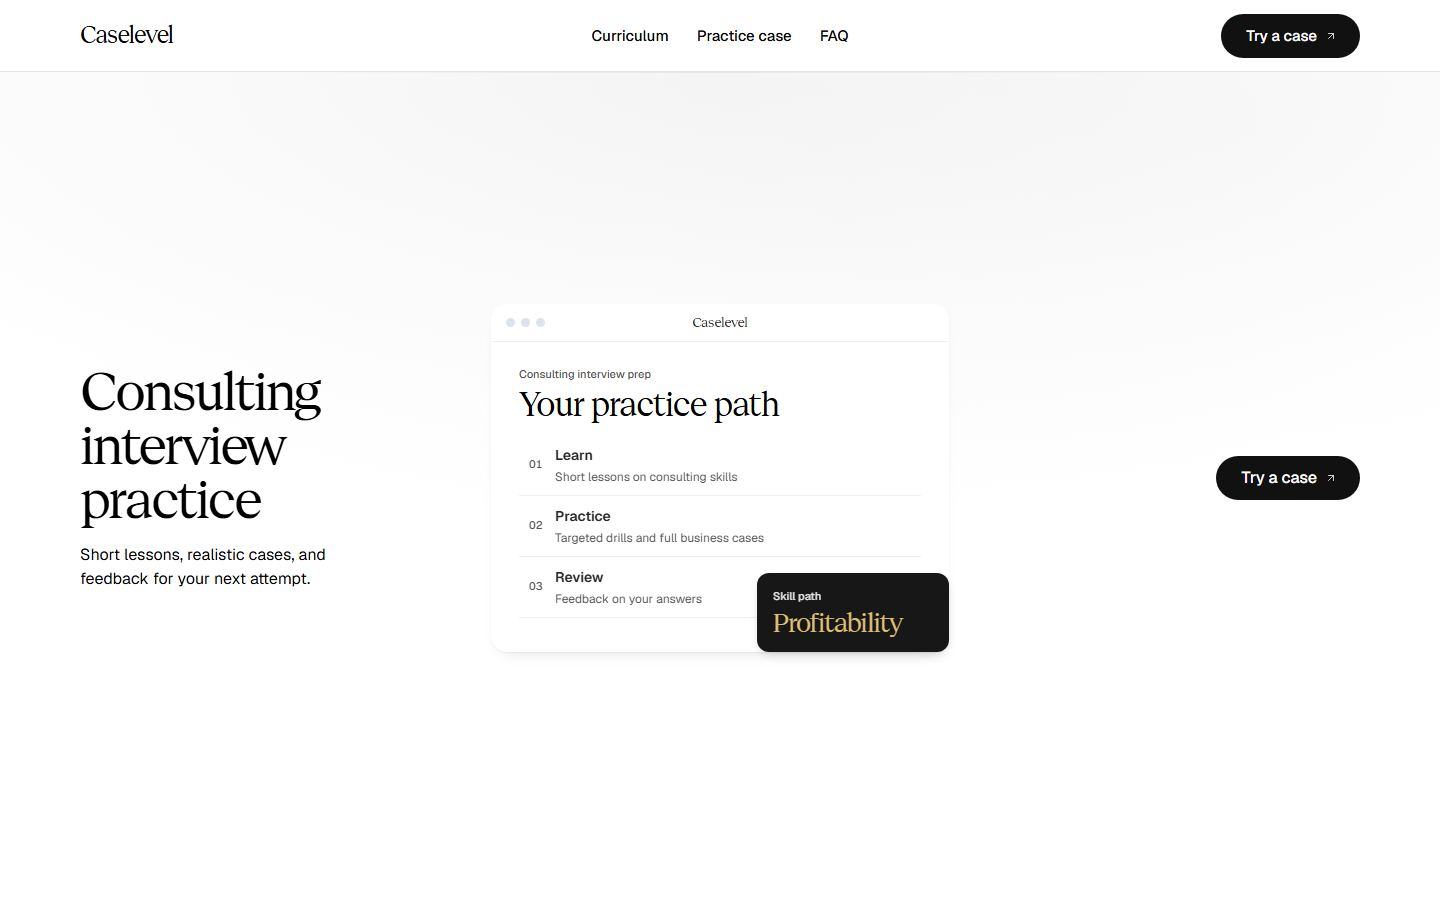
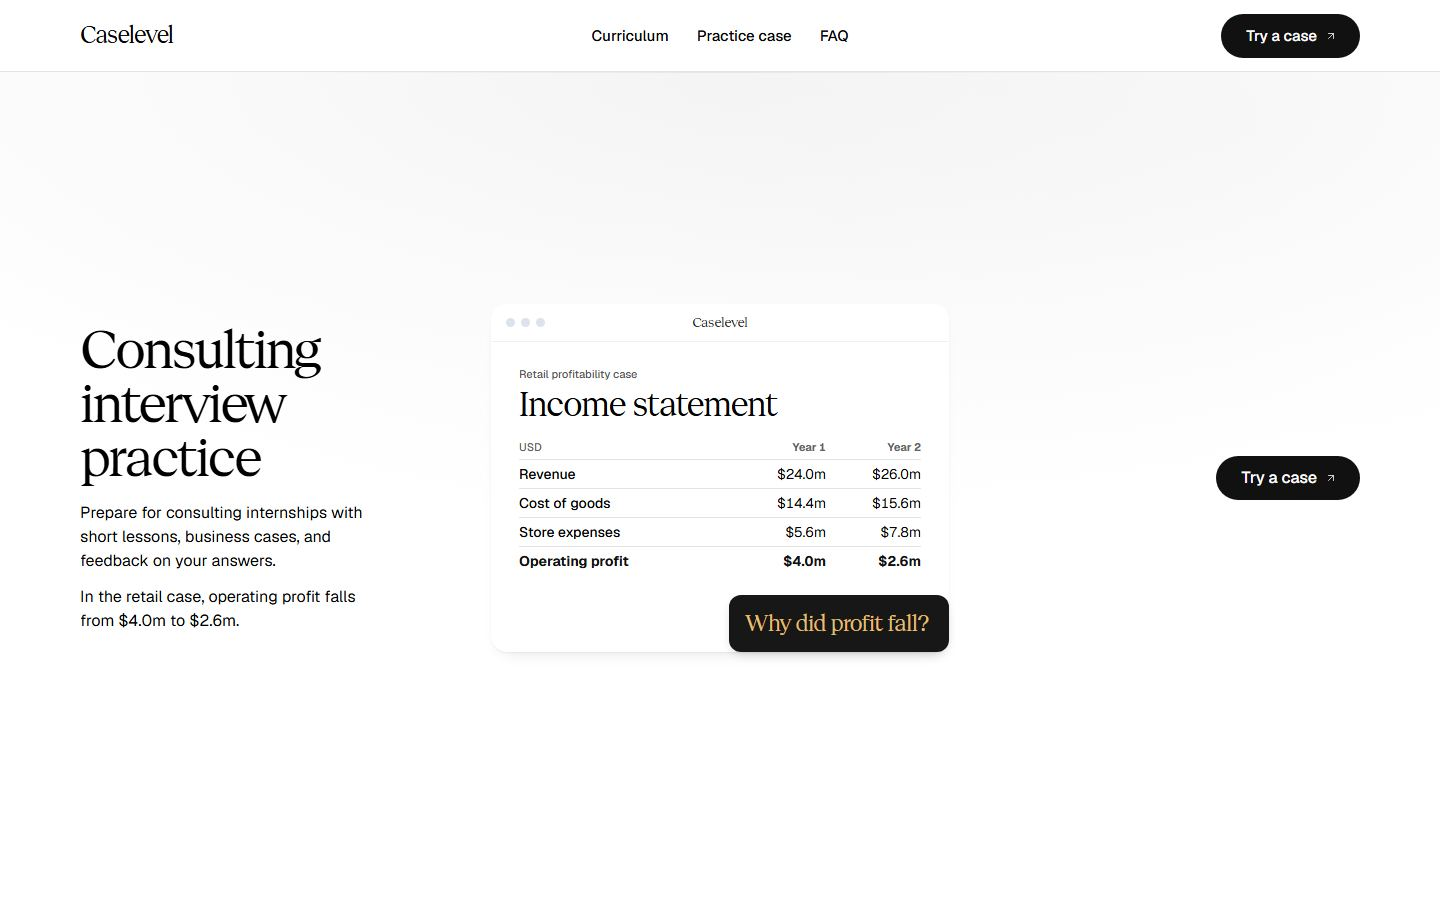
Show the playable case in the landing page hero

Changed region(s): [[0.0312, 0.3733, 0.25, 0.7156], [0.3438, 0.4978, 0.6562, 0.7467], [0.3438, 0.4044, 0.5625, 0.4667]]

diff --git a/app/page.tsx b/app/page.tsx
@@ -12,8 +12,8 @@ const navLinks = [
 
 const questions = [
   ["Who is Caselevel for?", "It’s designed for students preparing for consulting internships and entry-level roles, including people practicing their first case."],
-  ["What should I know before starting?", "The path starts with revenue, costs and profit. You’ll use basic arithmetic and read figures from a table."],
-  ["What feedback will I get?", "You get an explanation tied to the problem, so you can see what to change before your next attempt."],
+  ["What math does interview practice require?", "The path starts with revenue, costs and profit. You’ll use basic arithmetic and read figures from a table."],
+  ["How does interview practice feedback work?", "You get an explanation tied to the problem, so you can see what to change before your next attempt."],
 ];
 
 const oneScreen = { "--h": 1 } as CSSProperties;
@@ -48,11 +48,12 @@ export default function Home() {
             <div className="hero-text grid hero__grid">
               <div className="span-3">
                 <h1 id="hero-h" data-enter-whole="">Consulting interview practice</h1>
-                <p className="hero__lead">Short lessons, realistic cases, and feedback for your next attempt.</p>
+                <p className="hero__lead">Prepare for consulting internships with short lessons, business cases, and feedback on your answers.</p>
+                <p className="hero__lead hero__case-fact">In the retail case, operating profit falls from $4.0m to $2.6m.</p>
               </div>
               <div className="ly-collage span-6 start-4">
                 <div className="ly-collage__set is-on">
-                  <div id="product-preview" className="hero__window" role="img" aria-label="Caselevel combines lessons, practice problems, and feedback. Profitability is one skill path.">
+                  <div id="product-preview" className="hero__window" role="img" aria-label="Retail profitability case preview. The income statement shows operating profit falling from $4.0 million to $2.6 million. What drove the drop?">
                     <ProductPreview />
                   </div>
                 </div>
@@ -65,7 +66,7 @@ export default function Home() {
         <section className="section ground-surface" id="curriculum" style={oneScreen} aria-labelledby="curriculum-h">
           <div className="wrap">
             <div className="section-head">
-              <h2 id="curriculum-h">Case skills curriculum</h2>
+              <h2 id="curriculum-h">Consulting skills curriculum</h2>
             </div>
             <div className="grid curriculum-grid">
               <div className="span-5 curriculum-intro">
@@ -88,7 +89,7 @@ export default function Home() {
         <section className="section" id="case" style={oneScreen} aria-labelledby="case-h">
           <div className="wrap">
             <div className="grid grid--top section-head case-head">
-              <h2 className="span-5" id="case-h">Try the sample case</h2>
+              <h2 className="span-5" id="case-h">Retail profitability example</h2>
               <p className="span-7 start-6">Use a fictional retailer’s income statement to diagnose a profit decline and see how the feedback works.</p>
             </div>
             <div className="frame case-frame" data-visual="">

diff --git a/app/case-preview/preview.tsx b/app/case-preview/preview.tsx
@@ -2,15 +2,10 @@
 
 import { Stage } from "./kit/stage";
 import { Text, Window } from "./kit/window";
-import { Row } from "./kit/parts/Row";
 import { Card } from "./kit/parts/Card";
+import { caseQuestion } from "../case-data";
+import { CaseExhibit } from "../case-exhibit";
 import "./preview.css";
-
-const activities = [
-  ["Learn", "Short lessons on consulting skills"],
-  ["Practice", "Targeted drills and full business cases"],
-  ["Review", "Feedback on your answers"],
-];
 
 export function ProductPreview() {
   return (
@@ -26,21 +21,10 @@ export function ProductPreview() {
         const compact = layout === "compact";
         const content = (
           <div className="sc-main">
-            <Text className="sc-label">Consulting interview prep</Text>
-            <Text className="sc-title">Your practice path</Text>
-            <div className="sc-list">
-              {activities.map(([name, detail], index) => (
-                <Row
-                  key={name}
-                  pad={10}
-                  className="sc-row"
-                  lead={<Text className="sc-count">{"0" + (index + 1)}</Text>}
-                  title={<Text className="sc-name">{name}</Text>}
-                  subtitle={<Text className="sc-question">{detail}</Text>}
-                />
-              ))}
-            </div>
-            {compact && <Text className="sc-compact-path">Profitability skill path</Text>}
+            <Text className="sc-label">Retail profitability case</Text>
+            <Text className="sc-title">Income statement</Text>
+            <CaseExhibit />
+            {compact && <Text className="sc-prompt">{caseQuestion}</Text>}
           </div>
         );
 
@@ -50,8 +34,7 @@ export function ProductPreview() {
           <>
             <Window title="Caselevel" lights="grey" className="sc-window">{content}</Window>
             <Card className="sc-detail" pad="medium">
-              <Text className="sc-label">Skill path</Text>
-              <Text className="sc-detail-total">Profitability</Text>
+              <Text className="sc-prompt">{caseQuestion}</Text>
             </Card>
           </>
         );

diff --git a/app/case-preview/preview.css b/app/case-preview/preview.css
@@ -18,27 +18,22 @@
   }
 
   & .sc-main { padding: 20px 28px; }
-  & .sc-label, & .sc-count { color: #555; font: 500 11px/1.4 var(--font-text); }
-  & .sc-count { display: inline-block; min-width: 16px; font-variant-numeric: tabular-nums; }
+  & .sc-label { color: #555; font: 500 11px/1.4 var(--font-text); }
   & .sc-title { display: block; margin-top: 4px; font: 400 33px/1.1 var(--font-display); letter-spacing: -.035em; }
-  & .sc-list { margin-top: 12px; }
-  & .sc-row { border-bottom: 1px solid var(--ss-line); border-radius: 0; --ss-row-gap: 3px; --ss-row-line: 20px; }
-  & .sc-name { font-size: 14px; font-weight: 600; }
-  & .sc-question { color: #555; font-size: 12px; }
+  & .financials { margin-top: 12px; }
+  & .financials :is(th, td) { padding-block: 5px; }
 
   & .sc-detail {
     position: absolute;
     display: grid;
-    gap: 6px;
     right: var(--gutter);
     bottom: var(--gutter);
-    width: 192px;
+    width: 220px;
     background: #171717;
     box-shadow: 0 4px 12px -4px #00000038;
   }
 
-  & .sc-detail .sc-label { color: #e4e4e4; }
-  & .sc-detail-total { color: var(--case-gold); font: 400 26px/1 var(--font-display); letter-spacing: -.035em; }
+  & .sc-detail .sc-prompt { color: var(--case-gold); font: 400 22px/1.12 var(--font-display); letter-spacing: -.025em; }
 
   & [data-layout="compact"] {
     & .sc-compact {
@@ -48,15 +43,14 @@
       background: #fff;
       box-shadow: 0 6px 12px -8px #00000025;
     }
-    & .sc-main { padding: 6px 5px; }
+    & .sc-main { padding: 8px; }
     & .sc-title { font-size: 25px; }
-    & .sc-list { margin-top: 4px; }
-    & .sc-row { --ss-row-pad: 6px !important; }
-    & .sc-question { font-size: 11px; }
-    & .sc-compact-path {
+    & .sc-prompt {
       display: block;
-      padding-top: 11px;
-      font-size: 12px;
+      margin-top: 9px;
+      padding-top: 10px;
+      border-top: 1px solid var(--ss-line);
+      font-size: 13px;
       font-weight: 600;
     }
   }

diff --git a/app/case-exercise.tsx b/app/case-exercise.tsx
@@ -1,7 +1,8 @@
 "use client";
 
 import { useState } from "react";
-import { correctOption, financials, options } from "./case-data";
+import { caseQuestion, correctOption, options } from "./case-data";
+import { CaseExhibit } from "./case-exhibit";
 
 export function CaseExercise() {
   const [selected, setSelected] = useState<number | null>(null);
@@ -16,21 +17,13 @@ export function CaseExercise() {
       <div className="app__pane app__pane--list">
         <p className="t-label">Exhibit 01</p>
         <p className="app__title">Income statement</p>
-        <table className="financials">
-          <caption className="visually-hidden">Two years of fictional retailer financials</caption>
-          <thead><tr><th scope="col">USD</th><th scope="col">Year 1</th><th scope="col">Year 2</th></tr></thead>
-          <tbody>
-            {financials.map(({ label, prior, current }) => (
-              <tr key={label}><th scope="row">{label}</th><td>{prior}</td><td>{current}</td></tr>
-            ))}
-          </tbody>
-        </table>
+        <CaseExhibit />
       </div>
       <div className="app__pane app__pane--open">
         <p className="t-label">Retail profitability case</p>
         <div className="case-question">
           <fieldset>
-            <legend>What drove the drop in profit?</legend>
+            <legend>{caseQuestion}</legend>
             <div className="choices">
               {options.map(({ label }, index) => (
                 <label className="choice" key={label}>

diff --git a/app/case-exhibit.tsx b/app/case-exhibit.tsx
@@ -1,0 +1,17 @@
+import { financials } from "./case-data";
+
+export function CaseExhibit() {
+  return (
+    <table className="financials">
+      <caption className="visually-hidden">Two years of fictional retailer financials</caption>
+      <thead>
+        <tr><th scope="col">USD</th><th scope="col">Year 1</th><th scope="col">Year 2</th></tr>
+      </thead>
+      <tbody>
+        {financials.map(({ label, prior, current }) => (
+          <tr key={label}><th scope="row">{label}</th><td>{prior}</td><td>{current}</td></tr>
+        ))}
+      </tbody>
+    </table>
+  );
+}

diff --git a/public/caselevel.css b/public/caselevel.css
@@ -26,10 +26,11 @@
 
 .hero--triptych .ly-collage__set { display: grid; align-content: center; justify-items: center; }
 .ly-collage__set > div { width: min(100%, 530px); }
+.hero--triptych .hero__case-fact { margin-block-start: 12px; font-size: var(--t-body); }
 .case-preview .ss-stage .sc-window { overflow: hidden; background: #fff; }
 .case-preview .ss-stage .sc-detail { background: #171717; }
 
-.case-head p { align-self: center; }
+.case-head p { align-self: start; }
 
 .wrap > .case-frame {
   display: grid;

diff --git a/app/case-data.ts b/app/case-data.ts
@@ -1,3 +1,5 @@
+export const caseQuestion = "Why did profit fall?";
+
 export const financials = [
   { label: "Revenue", prior: "$24.0m", current: "$26.0m" },
   { label: "Cost of goods", prior: "$14.4m", current: "$15.6m" },

diff --git a/app/case-preview/REHEARSAL.md b/app/case-preview/REHEARSAL.md
@@ -1,7 +1,7 @@
 # Landing page visual rehearsal
 
-The hero uses the Stageshow static-card composition with a fully framed desktop window and a compact mobile card. Soft, short shadows stay within the stage. The profitability card sits outside the text column.
+The hero uses the Stageshow static-card composition. On desktop, a small question card sits over the bottom edge of the income statement window. On mobile, the question sits under the table inside a compact card. Both use the same exhibit and question as the playable case.
 
 The curriculum visual uses the cursorless Stageshow payout-flow reference. On entry, the Stage draws a connector from profit and branches it to revenue and costs. Stageshow States reveals the two formulas, then the diagram holds. Reduced-motion settings show the complete diagram immediately.
 
-Desktop and phone captures at 1440 and 390 px passed the Stageshow rehearsal gate. The animated captures had short sampling gaps, so the independent review judged the frames captured. Browser interaction checks on the published route verified that all connectors and formulas appear at both widths.
+The revised hero passed the Stageshow still-frame gate at 1440 and 390 px. The issue-tree motion is unchanged from the first pass. In this pass, the film tool could not crop the below-fold stage on the full page. Browser checks reached the final connector state at both widths with regular and reduced motion.
